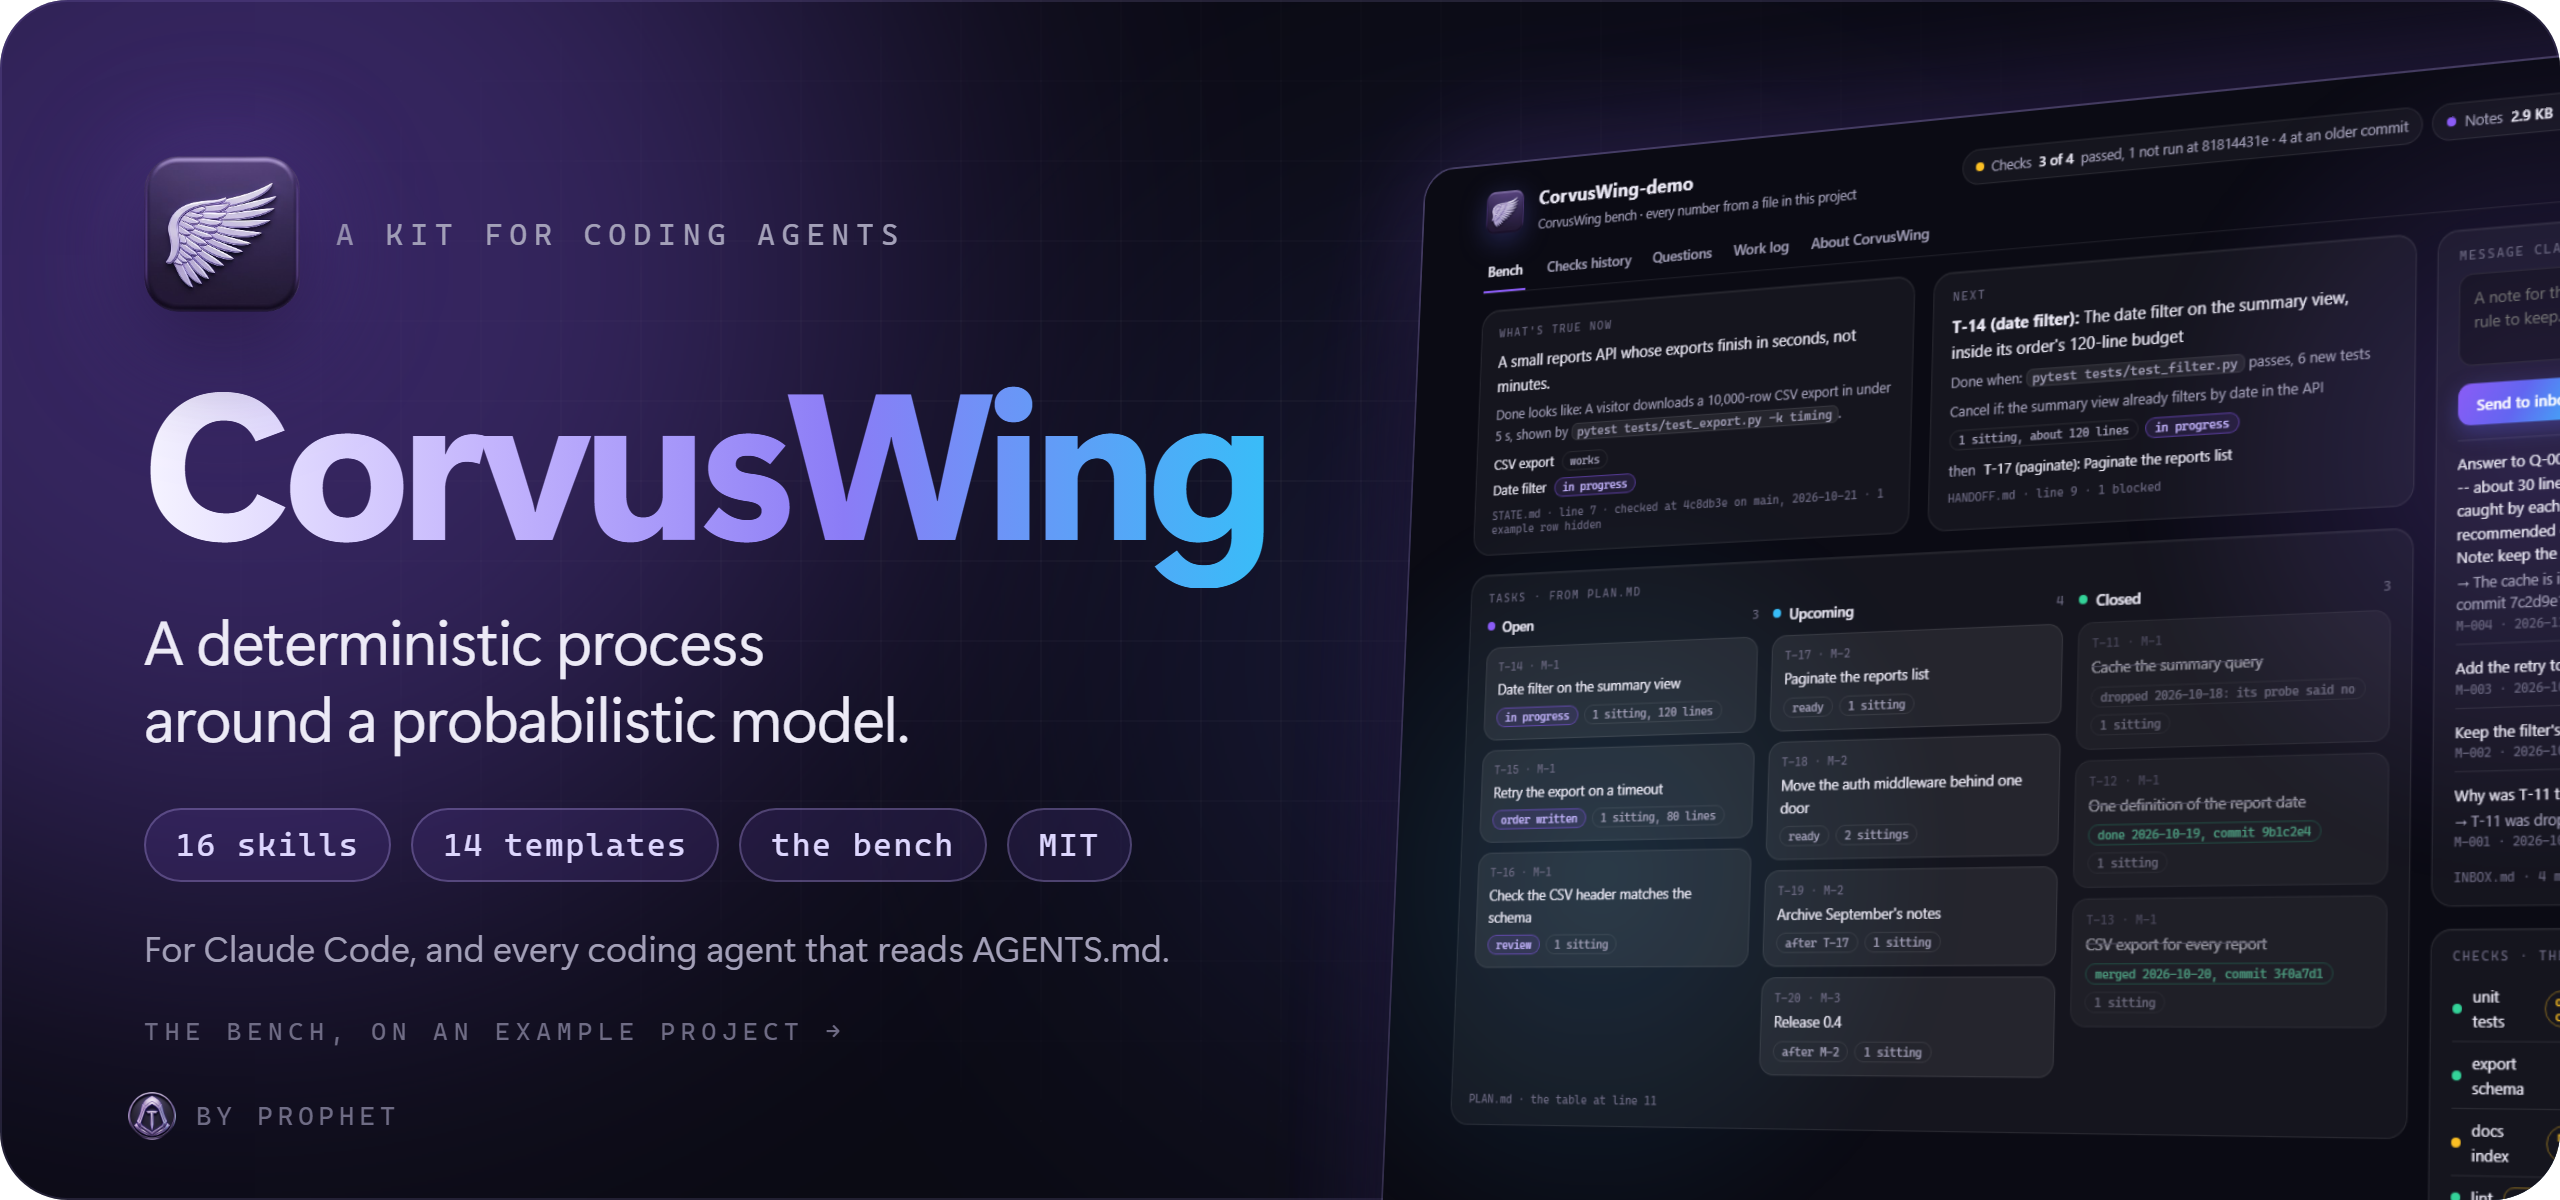
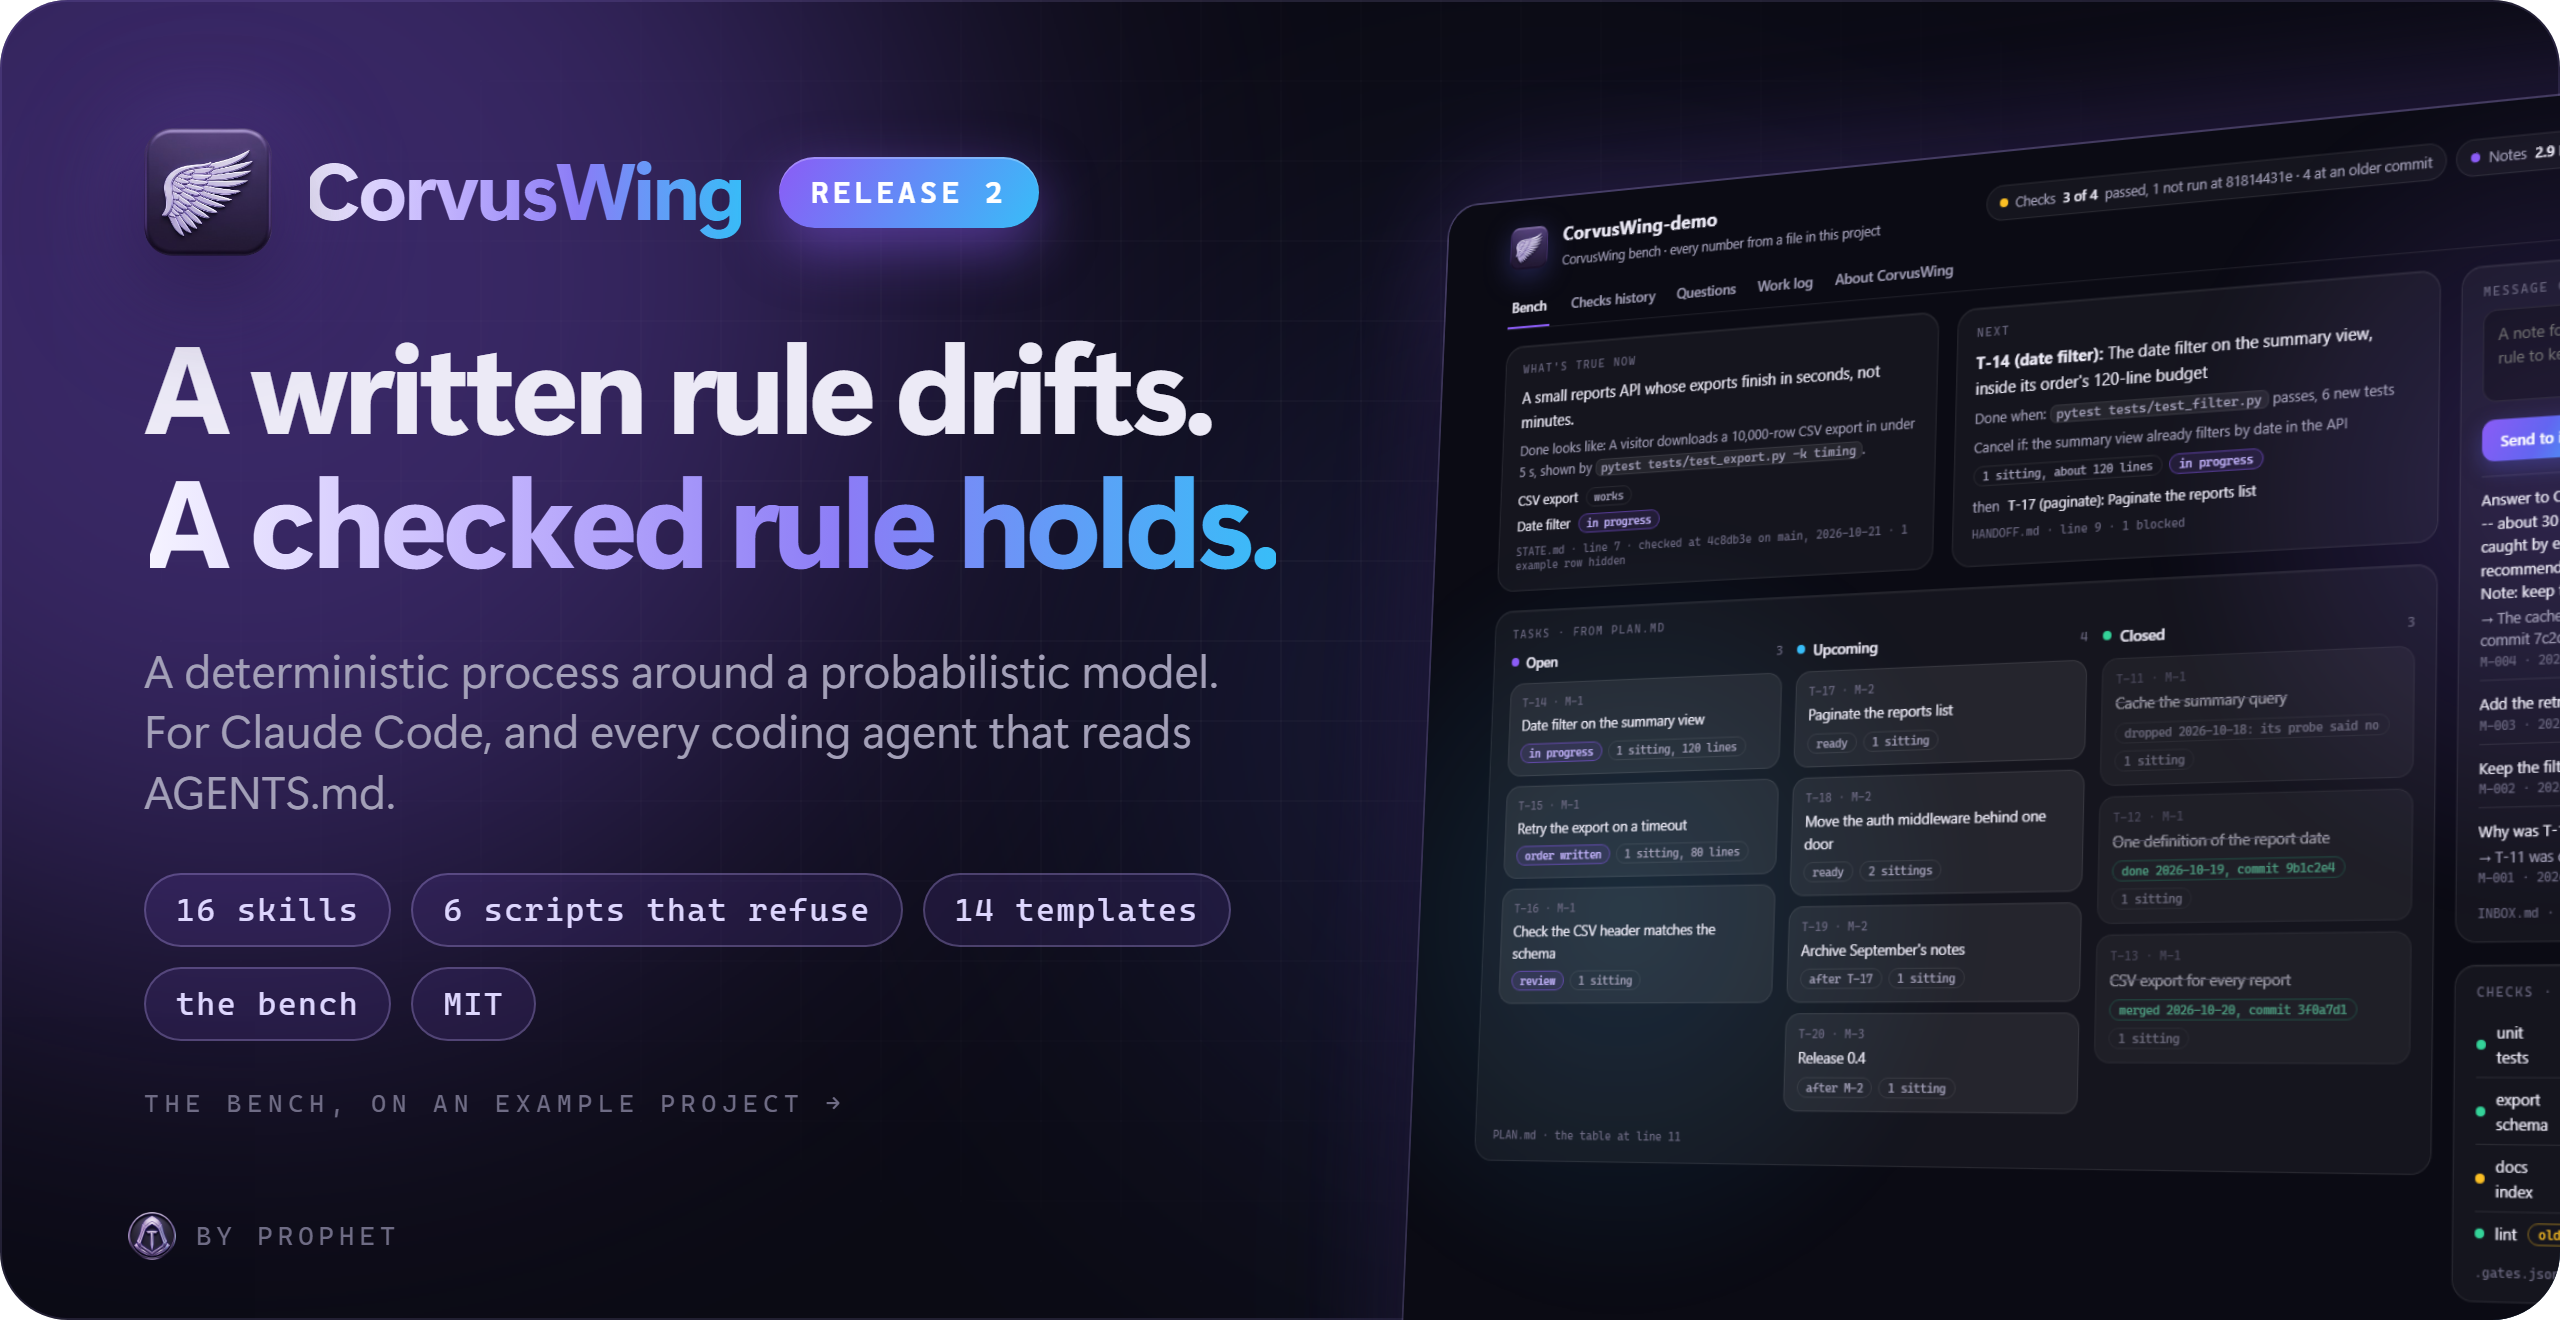
README for release 2: a new hero, and a New in release 2 section with three pictures -- the scripts that refuse, the research step, and the bench's new rooms

diff --git a/README.md b/README.md
@@ -1,4 +1,4 @@
-![CorvusWing, a kit for coding agents: a deterministic process around a probabilistic model, for Claude Code and every coding agent that reads AGENTS.md. Beside it, the bench on an example project.](skills/bench/assets/readme-hero.png)
+![CorvusWing release 2, a kit for coding agents: a written rule drifts, a checked rule holds. A deterministic process around a probabilistic model, for Claude Code and every coding agent that reads AGENTS.md. Beside it, the bench on an example project.](skills/bench/assets/readme-hero.png)
 
 # CorvusWing
 
@@ -19,6 +19,31 @@ If your agents have been rewriting code you never asked them to touch, spending 
 to throw away, and leaving you no further along than months ago: that is a common pattern, and it is
 not a verdict on you. It mostly comes from a few missing brakes. Each one is small. This kit installs
 them.
+
+## New in release 2
+
+**A written rule drifts. A checked rule holds.** Release 1 wrote the rules down as skills. Release 2 adds
+scripts that refuse: when a rule is broken, the work stops and says why, in words. It also adds a fixed
+order for research, and new rooms on the bench.
+
+![The scripts that refuse: two-strikes stops a step when the same check fails twice in a row; test-freeze refuses a commit that changes, skips or deletes an existing test unless its message says why; decide-first makes a design question get its cancel line, a measurement and a decision before any code; shell-guards refuses shell commands that fail without saying so.](skills/bench/assets/readme-guards.png)
+
+**The scripts that refuse.** Four skills now come with a script that stops the work when their rule is
+broken: `two-strikes`, `test-freeze`, `decide-first` and `shell-guards`. Each script ships with its own
+self-test, so every refusal is proven to work.
+
+![The research step, in five steps: the test is sealed first; a deliberately bad version must fail it; each candidate writes its elimination line before it runs; side effects are listed, not failed; a person picks, never the builder.](skills/bench/assets/readme-research.png)
+
+**The research step.** For a piece nobody has designed yet, `bake-off` fixes the order. The test is sealed
+first. A deliberately bad version must fail it. Each candidate writes its elimination line before it runs.
+Side effects are listed, not failed. A person picks, never the builder.
+
+![The bench's new rooms on an example project: Questions, where a decision is one click; an answered question with the reply and its commit; the Work log, each day's work with its proof; and Checks history, each check's last 20 results.](skills/bench/assets/readme-rooms.png)
+
+**The bench, new rooms.** Questions, where a decision is one click and the answer comes back with the
+commit that holds it. The Work log, each day's work with its proof. Checks history, each check's last 20
+results at a glance. Each room reads a file in your project: QUESTIONS.md (answers go to INBOX.md),
+WORKLOG.md, and the checks ledger, .gates.jsonl.
 
 ## The PROPHET method
 
